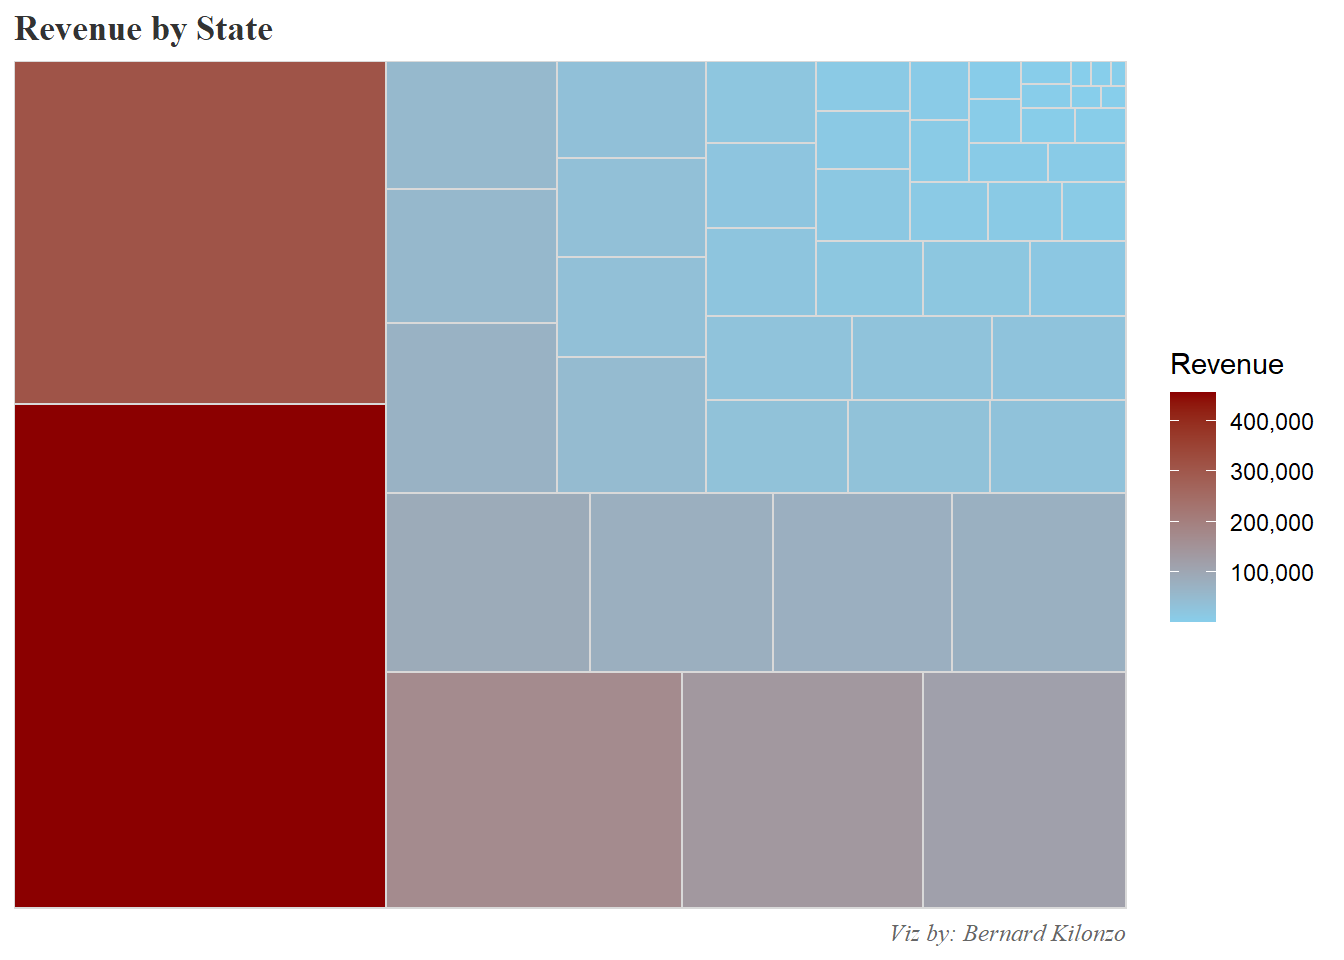
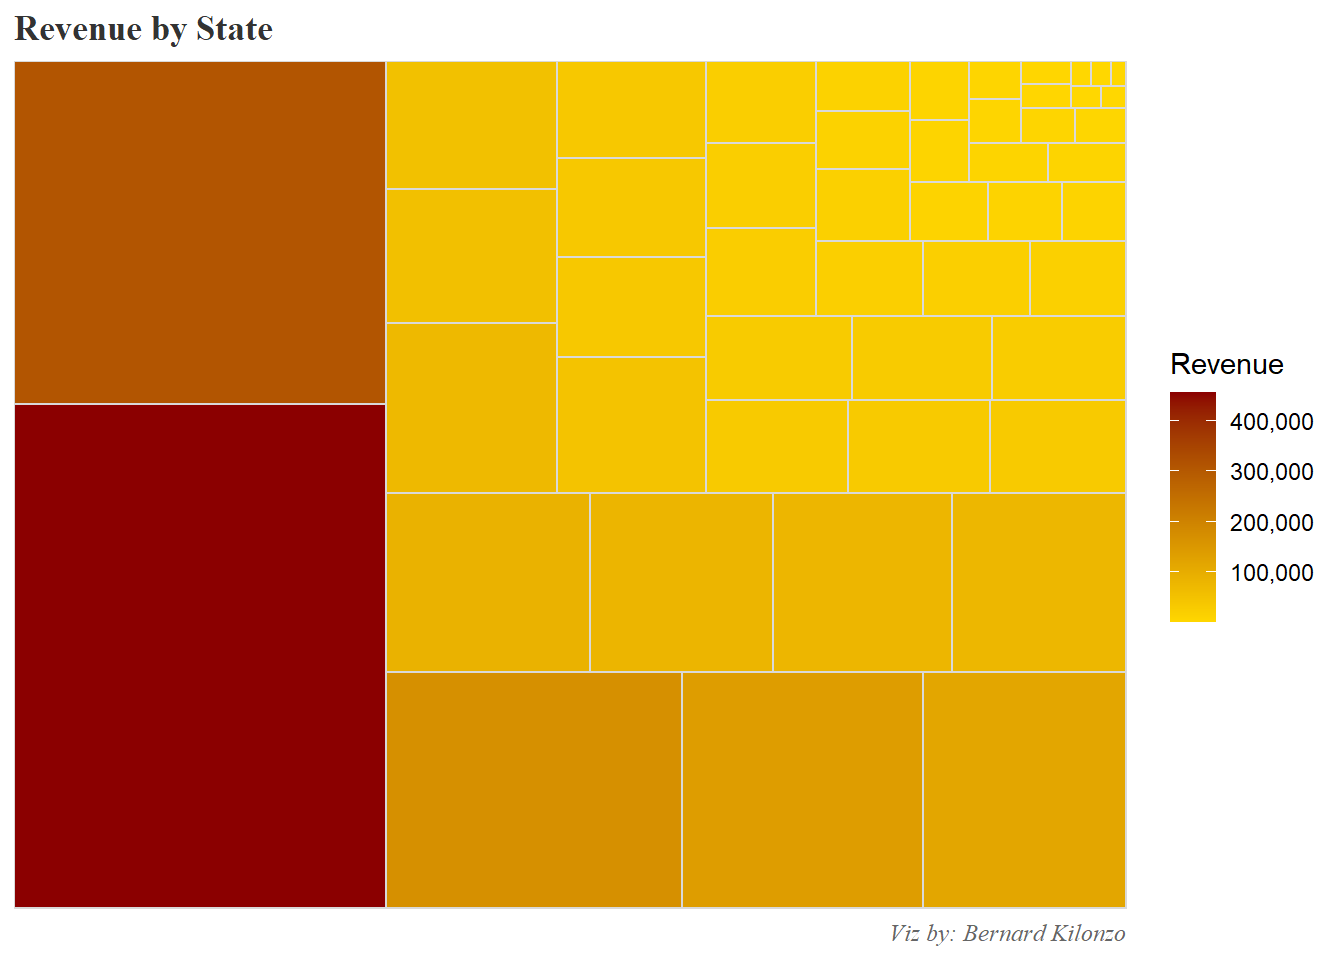
Color update.

diff --git a/Report Customization/Report_Dashboard_Customization.html b/Report Customization/Report_Dashboard_Customization.html
@@ -551,7 +551,7 @@ background: #023743;
 <span id="cb8-5"><a href="#cb8-5" aria-hidden="true" tabindex="-1"></a><span class="co">#creating a tree map</span></span>
 <span id="cb8-6"><a href="#cb8-6" aria-hidden="true" tabindex="-1"></a>state_sales<span class="sc">%&gt;%</span><span class="fu">ggplot</span>(<span class="fu">aes</span>(<span class="at">area =</span> sales, <span class="at">fill =</span> sales,<span class="at">label =</span> State))<span class="sc">+</span></span>
 <span id="cb8-7"><a href="#cb8-7" aria-hidden="true" tabindex="-1"></a>  <span class="fu">geom_treemap</span>(<span class="at">color =</span> <span class="st">"gray85"</span>, <span class="at">size =</span><span class="dv">1</span>)<span class="sc">+</span></span>
-<span id="cb8-8"><a href="#cb8-8" aria-hidden="true" tabindex="-1"></a>  <span class="fu">scale_fill_continuous</span>(<span class="at">low =</span> <span class="st">"skyblue"</span>, <span class="at">high =</span> <span class="st">"darkred"</span>,<span class="at">labels =</span> comma)<span class="sc">+</span></span>
+<span id="cb8-8"><a href="#cb8-8" aria-hidden="true" tabindex="-1"></a>  <span class="fu">scale_fill_continuous</span>(<span class="at">low =</span> <span class="st">"gold"</span>, <span class="at">high =</span> <span class="st">"darkred"</span>,<span class="at">labels =</span> comma)<span class="sc">+</span></span>
 <span id="cb8-9"><a href="#cb8-9" aria-hidden="true" tabindex="-1"></a>  <span class="fu">labs</span>(<span class="at">title =</span> <span class="st">"Revenue by State"</span>,</span>
 <span id="cb8-10"><a href="#cb8-10" aria-hidden="true" tabindex="-1"></a>       <span class="at">caption =</span> <span class="st">"Viz by: Bernard Kilonzo"</span>, <span class="at">fill =</span> <span class="st">"Revenue"</span>)<span class="sc">+</span></span>
 <span id="cb8-11"><a href="#cb8-11" aria-hidden="true" tabindex="-1"></a>  <span class="fu">theme</span>(<span class="at">plot.title =</span> <span class="fu">element_text</span>(<span class="at">family =</span> <span class="st">"serif"</span>, <span class="at">face =</span> <span class="st">"bold"</span>, <span class="at">size =</span> <span class="dv">13</span>, <span class="at">color =</span> <span class="st">"gray20"</span>),</span>
